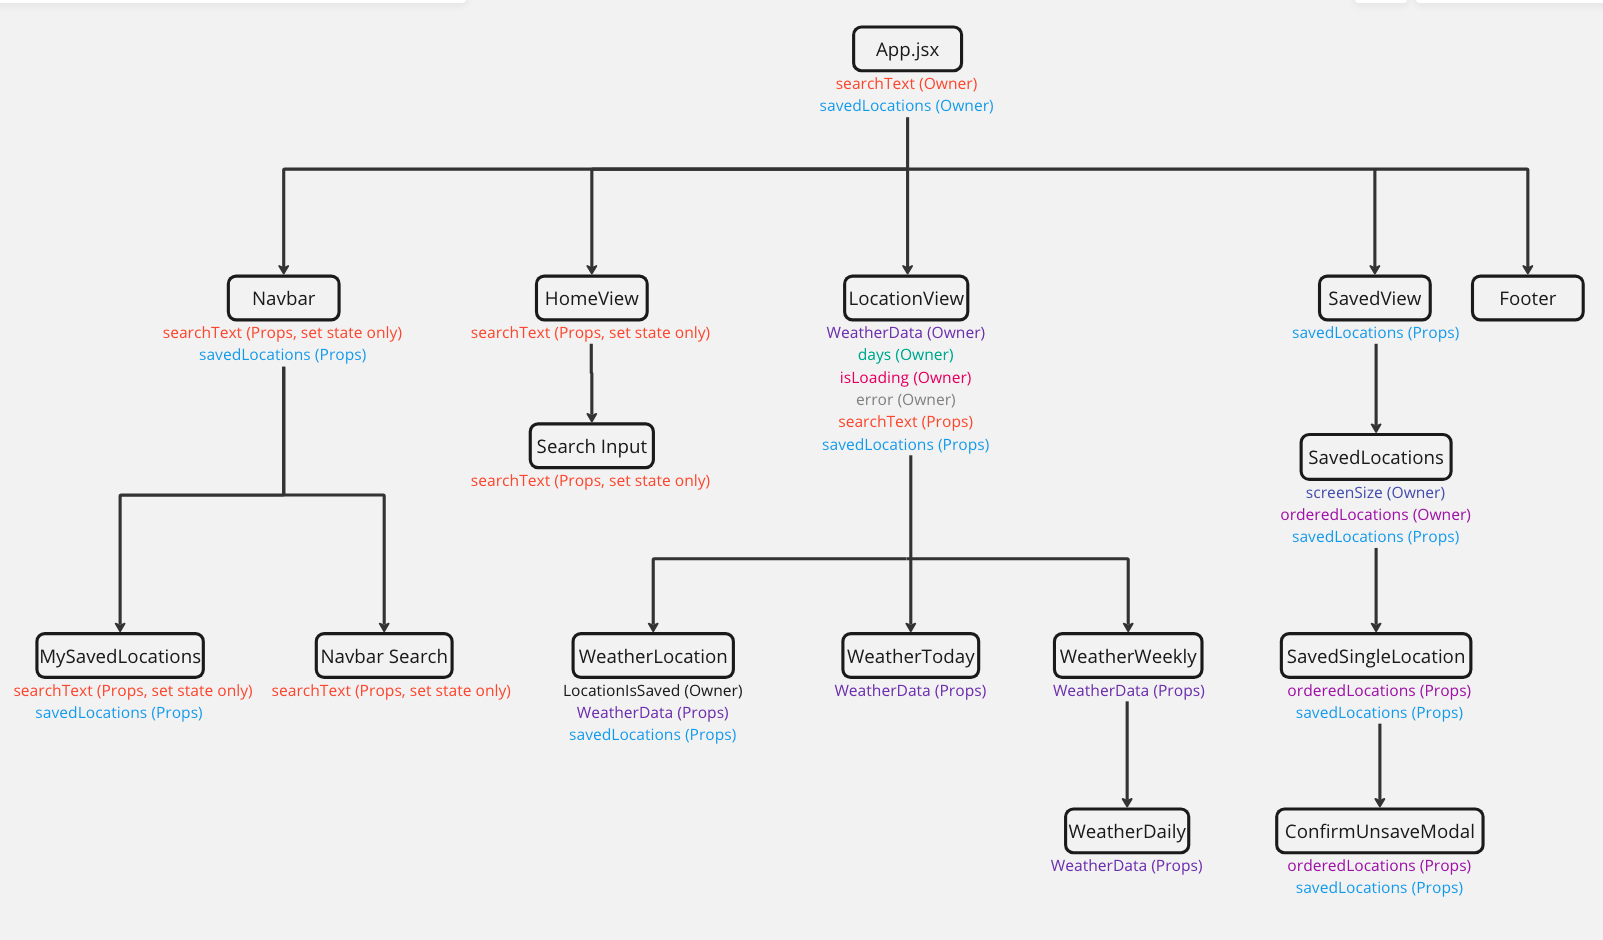
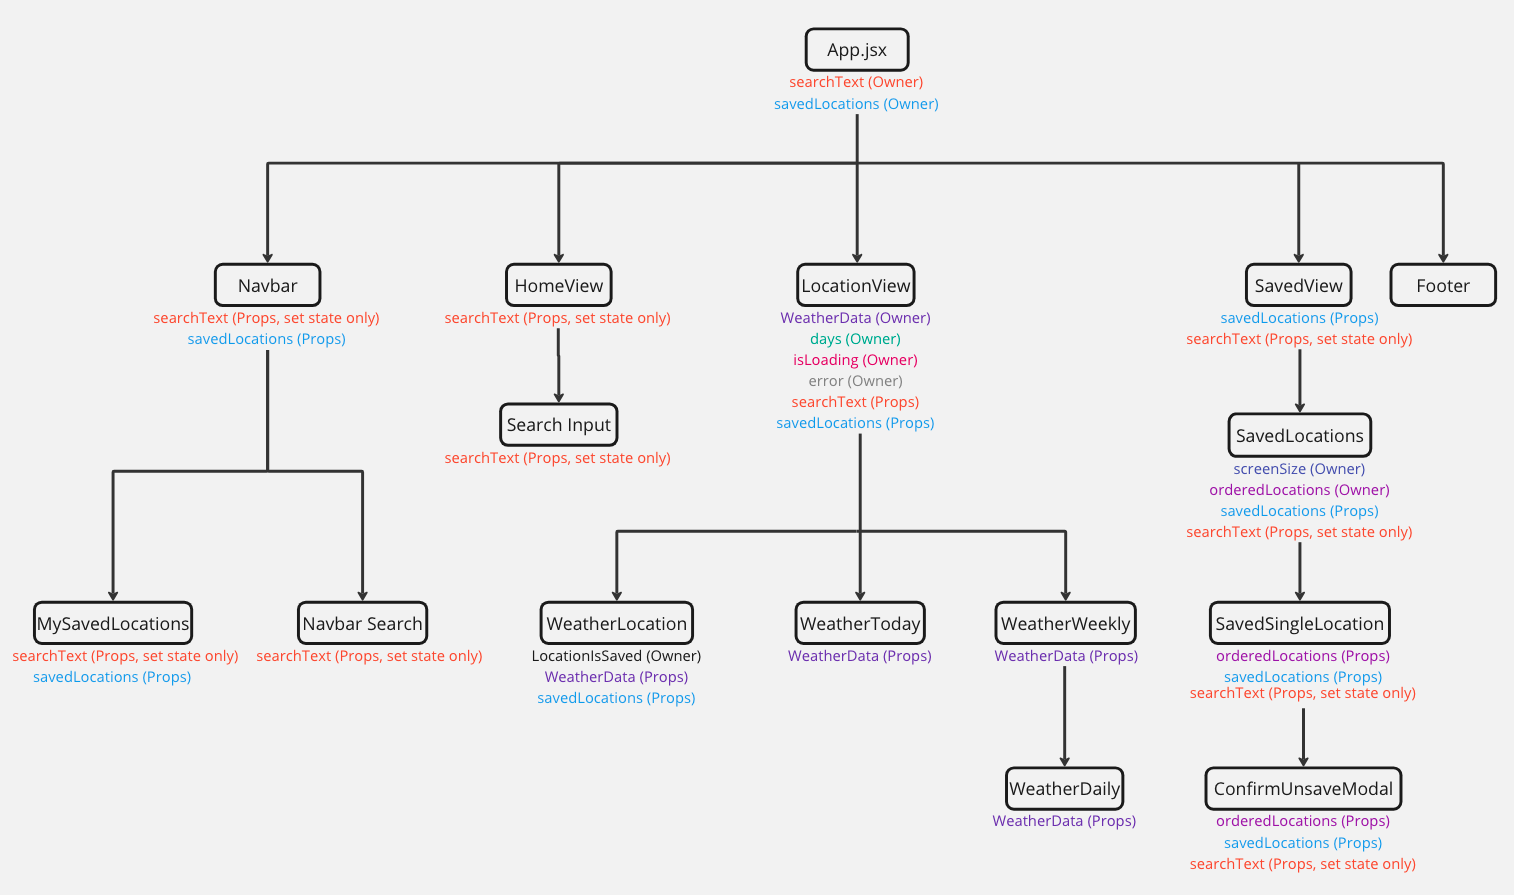
Add click name on SavedView

diff --git a/src/components/SavedComponents/SavedSingleLocation/SavedSingleLocation.jsx b/src/components/SavedComponents/SavedSingleLocation/SavedSingleLocation.jsx
@@ -1,16 +1,26 @@
+import { useNavigate } from "react-router-dom"
+
 import bookmarkFilled from "/public/assets/bookmark-filled.png"
 import ConfirmUnsaveModal from "../ConfirmUnsaveModal/ConfirmUnsaveModal"
 
 import "./SavedSingleLocation.css"
 
-const SavedSingleLocation = ({ location, savedLocations, setSavedLocations }) => {
+const SavedSingleLocation = ({ location, setSearch, savedLocations, setSavedLocations }) => {
+
+  const navigate = useNavigate()
+
+  function handleClickSaved(location) {
+    setSearch(location)
+    localStorage.setItem("searchQuery", location) 
+    navigate("/location")
+  }
 
   return (
     <>
       <div className="single-location">
         {/* location name has spaces removed below as well as in modal id because id cannot have a space */}
         <img className="saved-bookmark-icon" src={bookmarkFilled} alt={"bookmark"} data-bs-toggle="modal" data-bs-target={`#confirmUnsave${location.split(" ").join("")}Modal`} />
-        <p className="single-location-name mb-0">{location}</p>
+        <p className="single-location-name mb-0" onClick={() => {handleClickSaved(location)}}>{location}</p>
       </div>
       <ConfirmUnsaveModal location={location} savedLocations={savedLocations} setSavedLocations={setSavedLocations} />
     </>

diff --git a/src/components/SavedComponents/SavedLocations/SavedLocations.jsx b/src/components/SavedComponents/SavedLocations/SavedLocations.jsx
@@ -6,7 +6,7 @@ import useScreenSize from "../../../hooks/useScreenSize"
 
 import "./SavedLocations.css"
 
-const SavedLocations = ({ savedLocations, setSavedLocations }) => {
+const SavedLocations = ({ setSearch, savedLocations, setSavedLocations }) => {
 
   const screenSize = useScreenSize()
 
@@ -19,7 +19,7 @@ const SavedLocations = ({ savedLocations, setSavedLocations }) => {
   return (
     <div className="saved-locations">
       {orderedLocations.map(location => {
-        return <SavedSingleLocation key={location} location={location} savedLocations={savedLocations} setSavedLocations={setSavedLocations} />
+        return <SavedSingleLocation key={location} location={location} setSearch={setSearch} savedLocations={savedLocations} setSavedLocations={setSavedLocations} />
       })}
     </div>
   )

diff --git a/src/App.jsx b/src/App.jsx
@@ -19,7 +19,7 @@ const App = () => {
       <Navbar search={search} setSearch={setSearch} savedLocations={savedLocations} />
         <Routes>
           <Route path="/" element={<HomeView setSearch={setSearch} />} />
-          <Route path="/saved" element={<SavedView savedLocations={savedLocations} setSavedLocations={setSavedLocations} />} />
+          <Route path="/saved" element={<SavedView setSearch={setSearch} savedLocations={savedLocations} setSavedLocations={setSavedLocations} />} />
           <Route path="/location" element={<LocationView search={search} savedLocations={savedLocations} setSavedLocations={setSavedLocations} />} />
         </Routes>
       <Footer />

diff --git a/src/views/SavedView/SavedView.jsx b/src/views/SavedView/SavedView.jsx
@@ -3,11 +3,11 @@ import SavedLocations from "../../components/SavedComponents/SavedLocations/Save
 
 import "./SavedView.css"
 
-const SavedView = ({ savedLocations, setSavedLocations }) => {
+const SavedView = ({ setSearch, savedLocations, setSavedLocations }) => {
   return (
     <div className="saved-view-container">
       <SavedTitle />
-      <SavedLocations savedLocations={savedLocations} setSavedLocations={setSavedLocations} />
+      <SavedLocations setSearch={setSearch} savedLocations={savedLocations} setSavedLocations={setSavedLocations} />
     </div>
   )
 }

diff --git a/tests/App.test.jsx b/tests/App.test.jsx
@@ -7,7 +7,7 @@ describe("App tests", () => {
   it("App component should have search box", () => {
     render(<MemoryRouter><App /></MemoryRouter>)
 
-    expect(screen.getByRole("textbox")).toBeInTheDocument();
+    expect(screen.getByRole("textbox")).toBeInTheDocument()
   })
 
 })

diff --git a/tests/utils/getLocationWeatherUtil.test.js b/tests/utils/getLocationWeatherUtil.test.js
@@ -5,7 +5,6 @@ import { describe } from "vitest";
 
 vi.mock("axios");
 
-
 describe("getLocationWeatherUtil tests", () => {
 
   it('Gets weather data for london', async () => {

diff --git a/src/components/SavedComponents/SavedSingleLocation/SavedSingleLocation.css b/src/components/SavedComponents/SavedSingleLocation/SavedSingleLocation.css
@@ -18,3 +18,7 @@
 .saved-bookmark-icon{
   cursor: pointer;
 }
+
+.single-location-name{
+  cursor: pointer;
+}

diff --git a/docs/user-stories.md b/docs/user-stories.md
@@ -2,6 +2,8 @@
 
 ## User Stories and Test Plans
 
+### Core Features
+
 1. **As a user, I want to be able to access a web-based travel information application, so I can get information about a location**
 2. **As a user, I want to be able to see a location search box on the home page, so I know where to search for a location**
 
@@ -44,6 +46,31 @@
 
 - TEST: Navbar search bar should not be displayed when in HomeView
 - TEST: Navbar search bar should be displayed when not in HomeView
+
+### Additonal Features (GEN AI)
+
+10. **As a user, I want to see a map of the selected location, so that I can visualize its geographic context**
+
+- TEST: Test that the map component is rendered on the weather view
+- TEST: Map API/service to return specific location data
+- TEST: Verify that the map correctly displays the selected location
+- TEST: Mock the map API response to include unexpected location data or errors
+
+11. **As a user, I want to view a list of hotels in the selected location, so that I can explore accommodation options**
+
+- TEST: Test that the hotel list component is rendered on the weather view
+- TEST: Verify that the list displays correct hotel information, such as name, location and rating
+- TEST: Mock the hotel API response to return an empty array or null data
+
+12. **As a user, I want the hotel list to be displayed in a carousel format, so that I can easily navigate through the list**
+
+- TEST: Test that the hotel list is displayed in a carousel format
+- TEST: Test the behavior of the carousel component when it contains only one item
+
+13. **As a user, I want the hotel images to be presented in a slideshow within the hotel's carousel, so that I can preview the hotel amenities and facilities**
+
+- TEST: Test that each hotel item in the carousel contains a slideshow of images
+- TEST: Mock carousel data to include a limited number of items and test navigation beyond the last item
 
 ## Component Hierachy, State/Data Flow Diagrams
 

diff --git a/docs/generative-ai-documenation.md b/docs/generative-ai-documenation.md
@@ -1,0 +1,29 @@
+# Use of Generative AI
+
+## Generative AI for Additional Features
+
+### I asked ChatGPT to come up with some user stories and test plans for me:
+
+![gen-ai-user-stories-test-plan-question](./images/user-story-genai-q.png)
+
+![gen-ai-user-stories](./images/user-stories-genai.png)
+
+![gen-ai-test-plans](./images/test-plans-genai.png)
+
+### I then asked ChatGPT to identify some edge cases for these:
+
+![gen-ai-edge-cases](./images/genai-edge-q.png)
+
+![gen-ai-edge-cases-1](./images/genai-edge-1.png)
+
+![gen-ai-edge-cases-2](./images/genai-edge-2.png)
+
+## Generative AI for Refactoring
+
+### I asked ChatGPT to refactor this piece of code to make it more efficient and cleaner:
+
+![unrefactored](./images/unrefactored.png)
+
+![unrefactored-q](./images/unrefactored-q.png)
+
+![refactored](./images/refactored.png)
